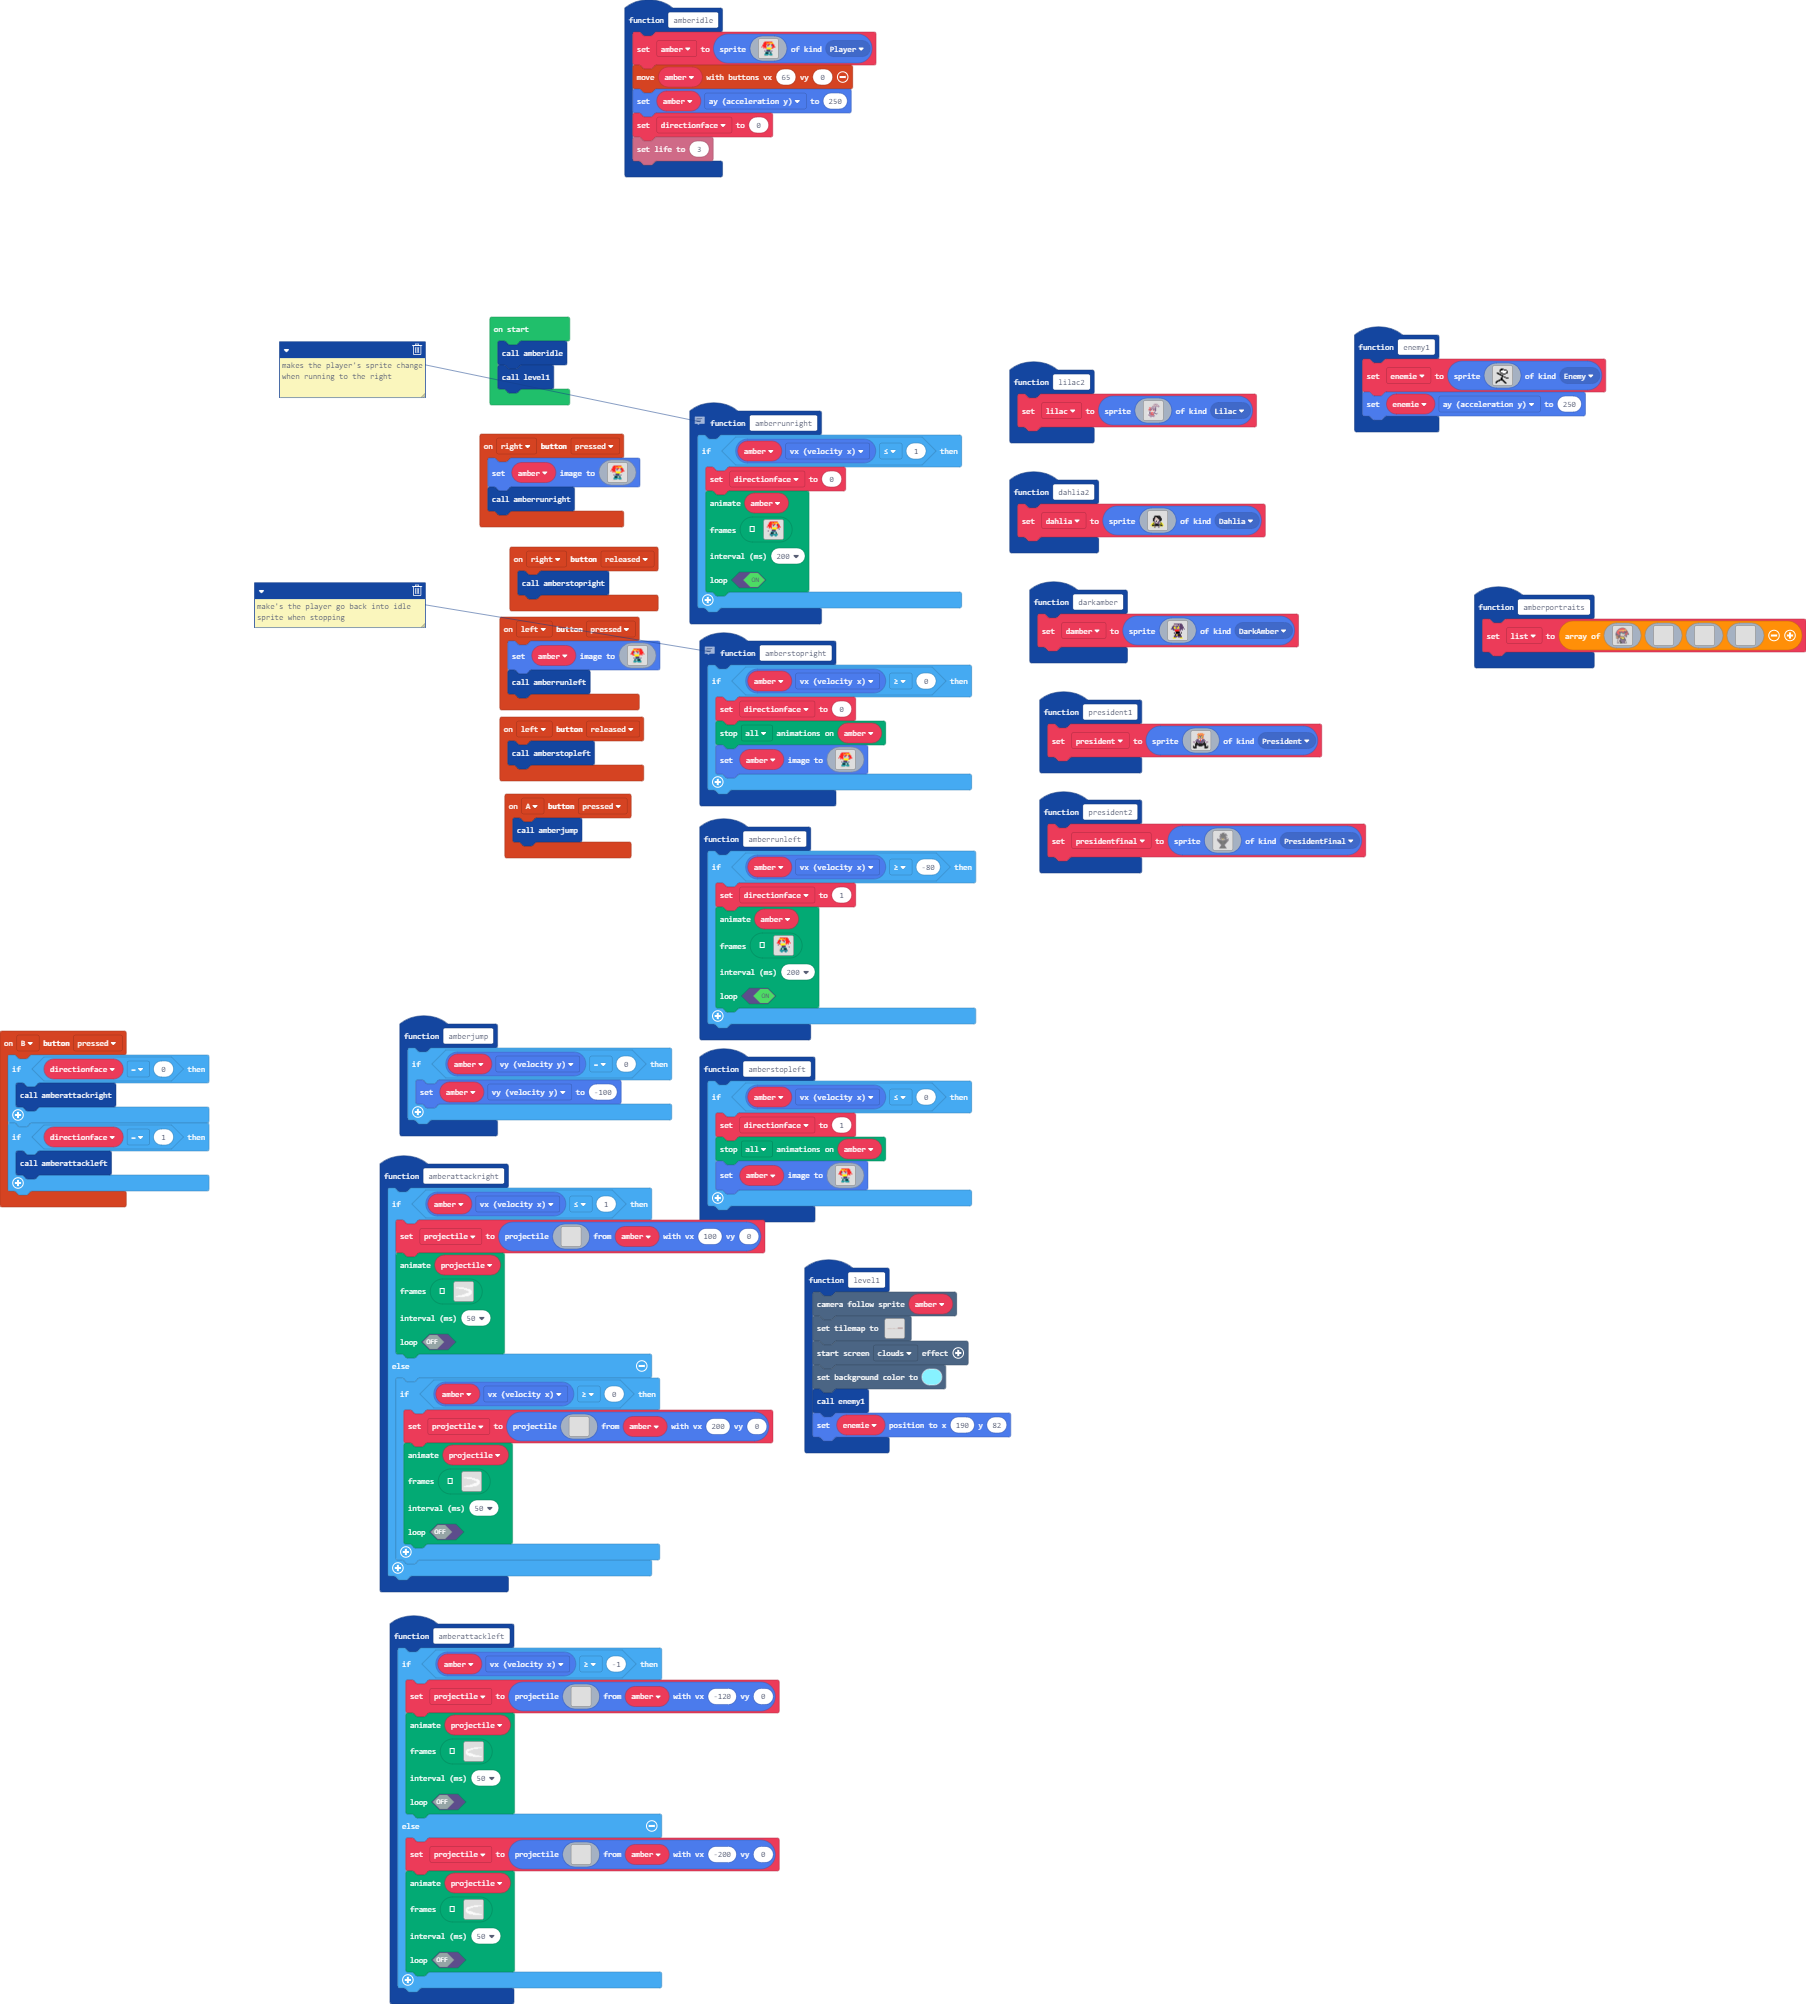
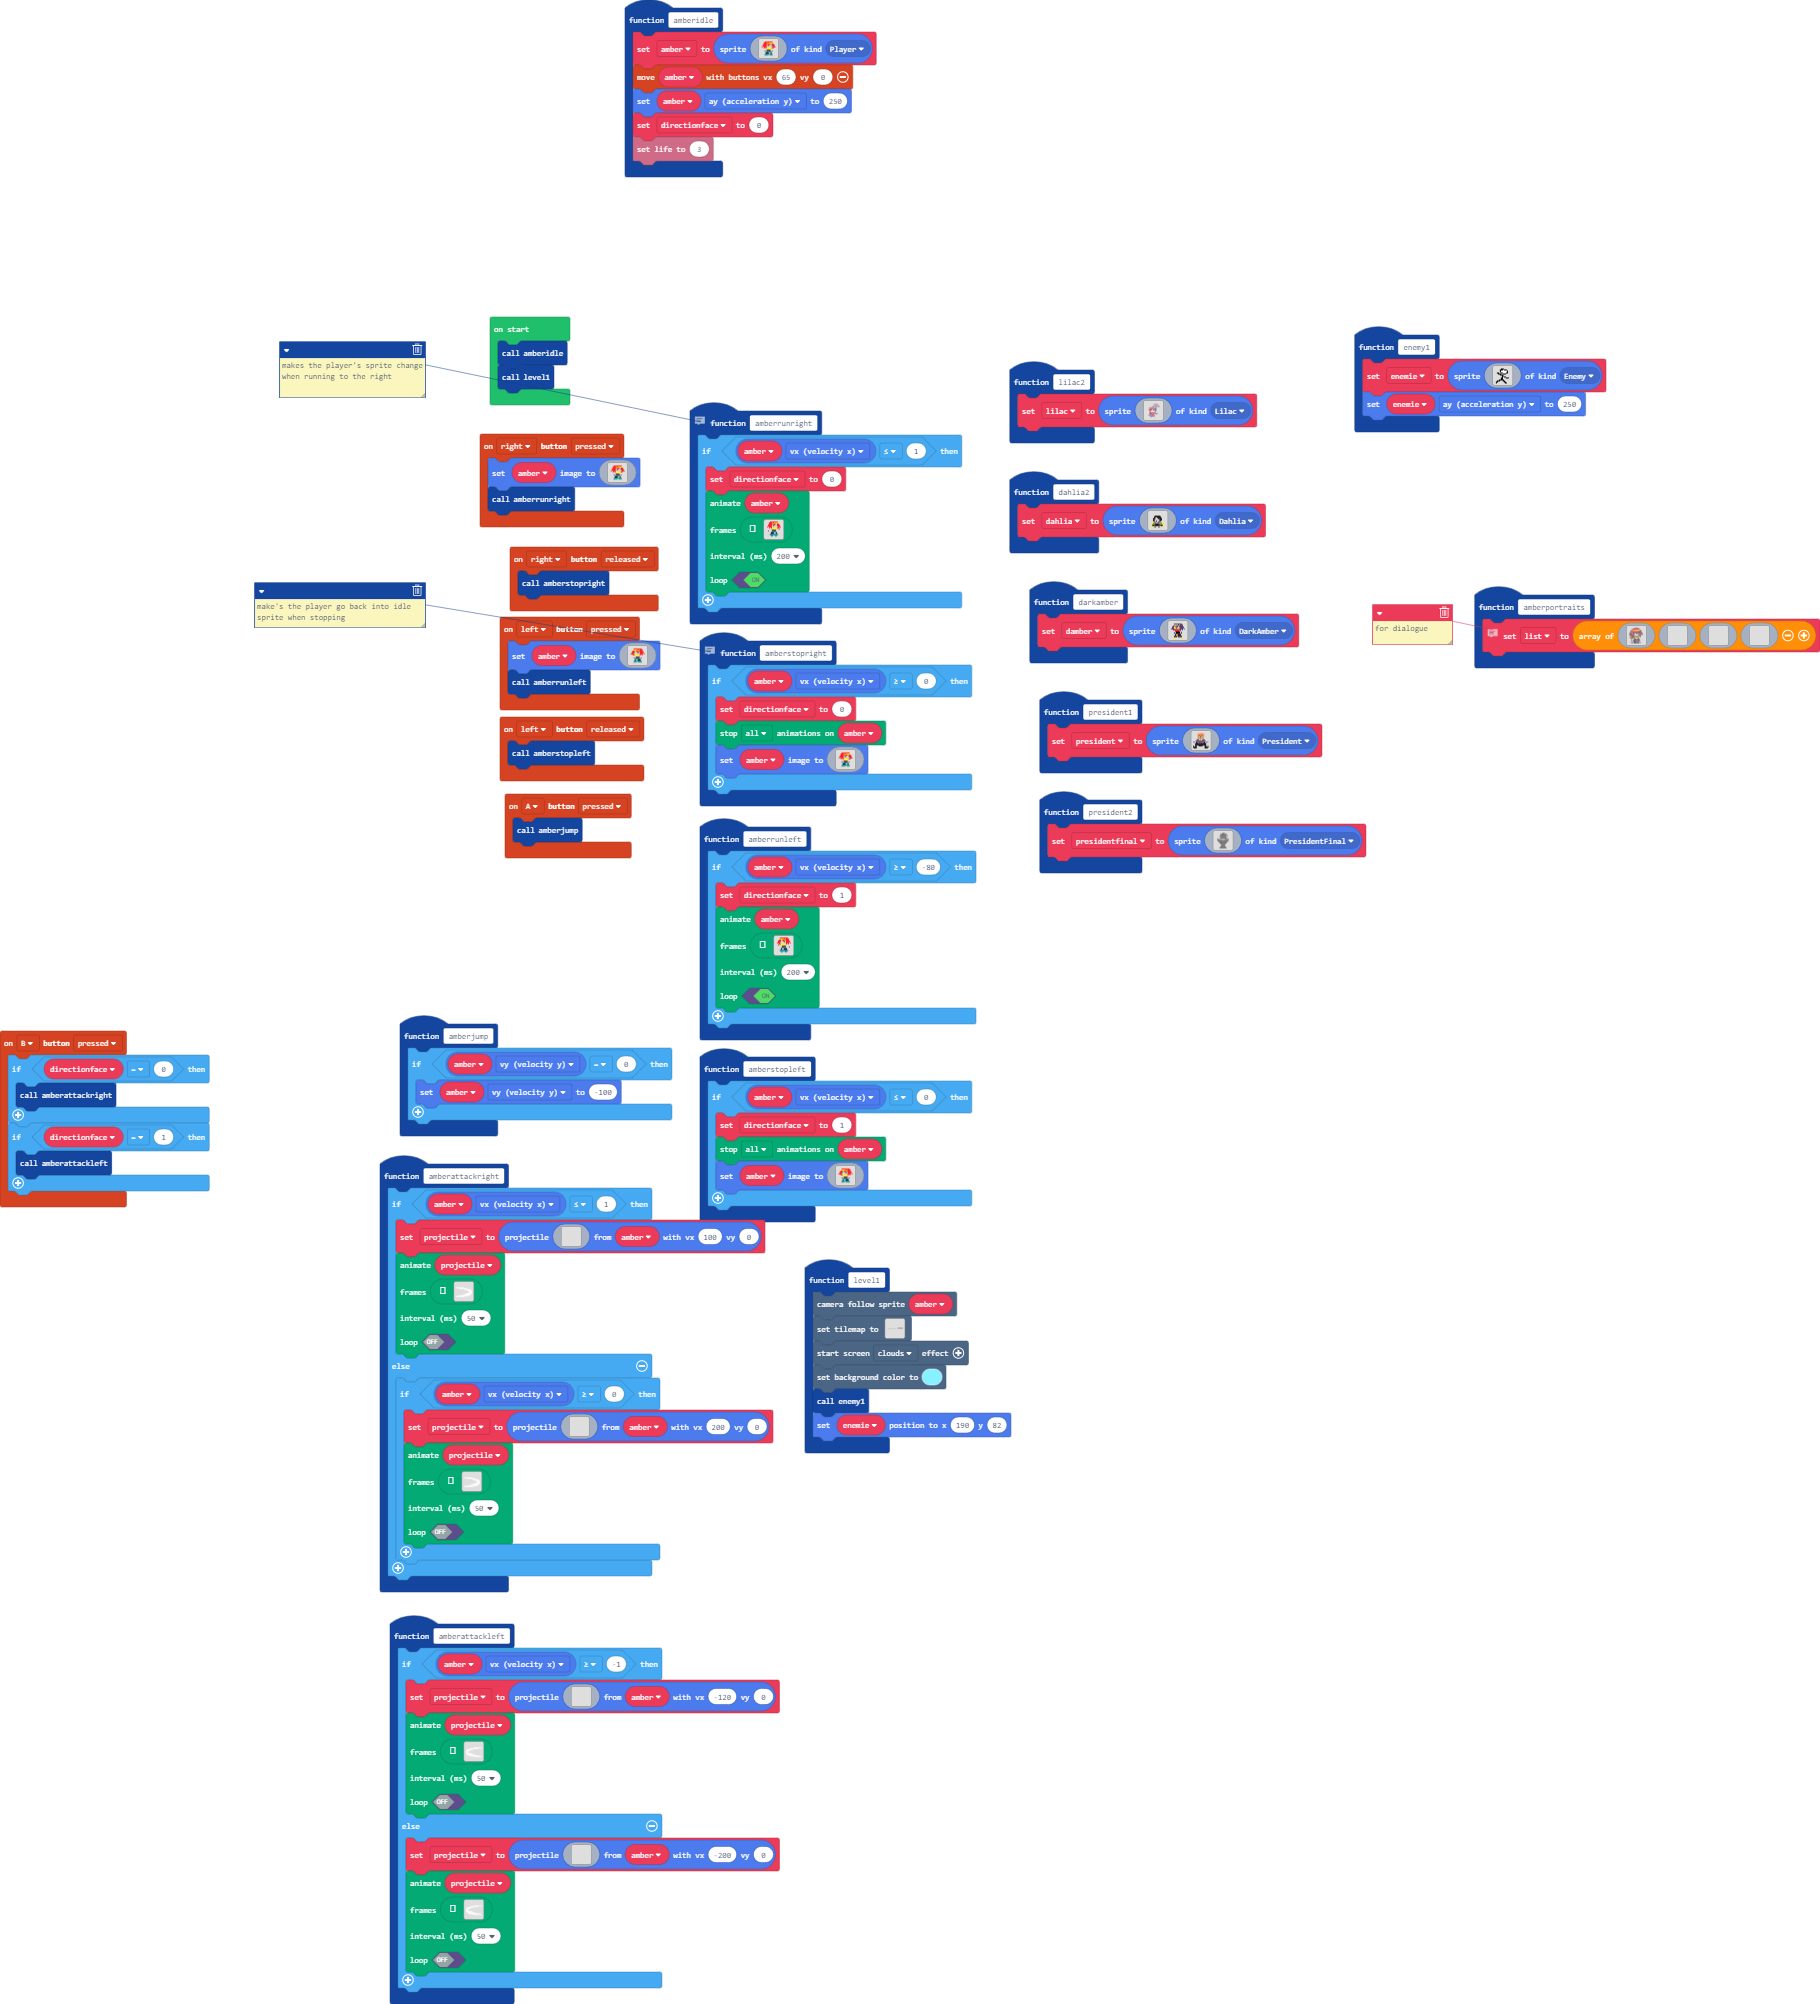
Update main.blocks, main.ts

diff --git a/main.ts b/main.ts
@@ -596,6 +596,7 @@ controller.right.onEvent(ControllerButtonEvent.Pressed, function () {
     amberrunright()
 })
 function amberportraits () {
+    // for dialogue
     list = [img`
 . . . . . . . . . . . . . . . . . . . . . . . . . . . . . . . . . . . . . . . . . . . . . . . . . . 
 . . . . . . . . . . . . . . . . . . . . . f f f f f f f f . . . . . . . . . . . . . . . . . . . . . 
